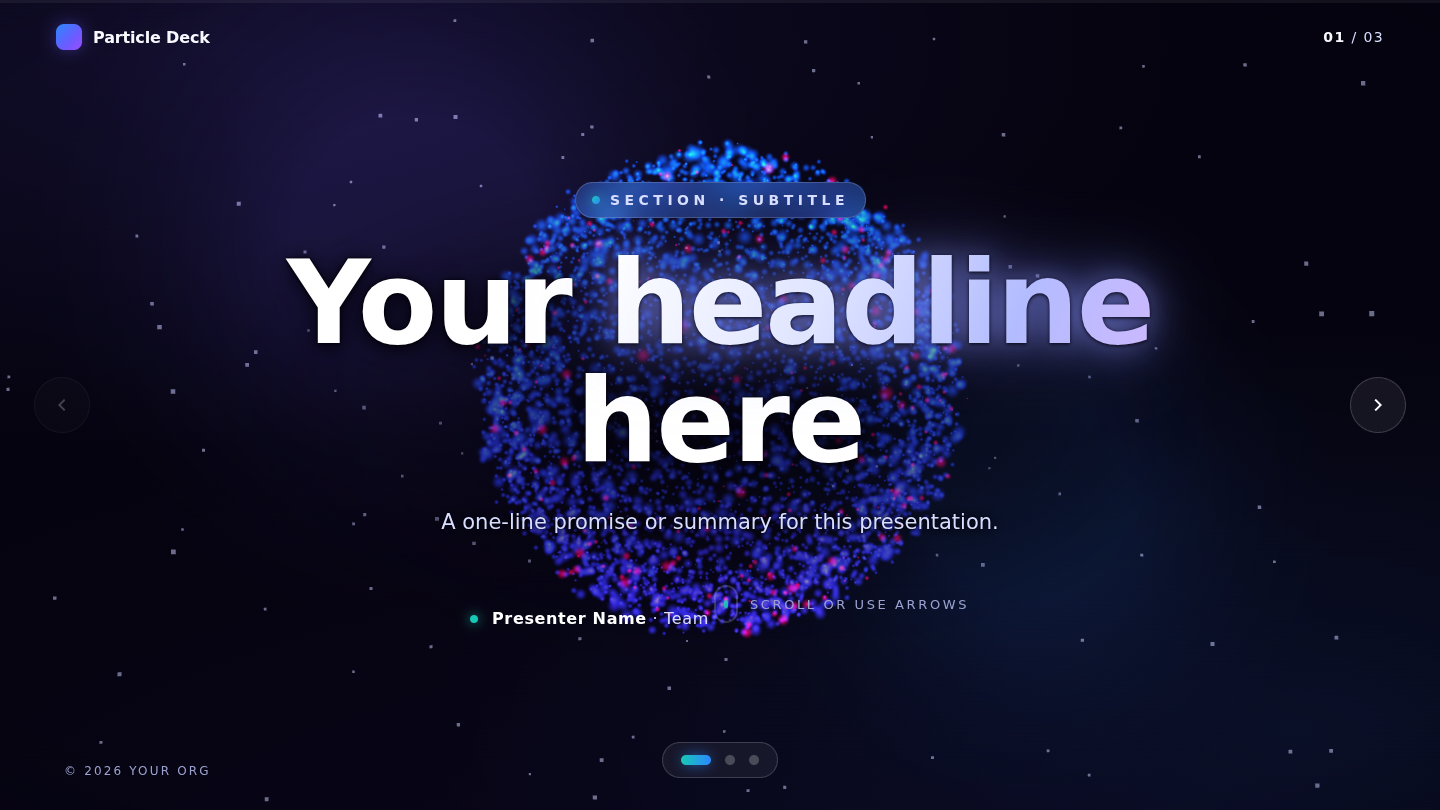
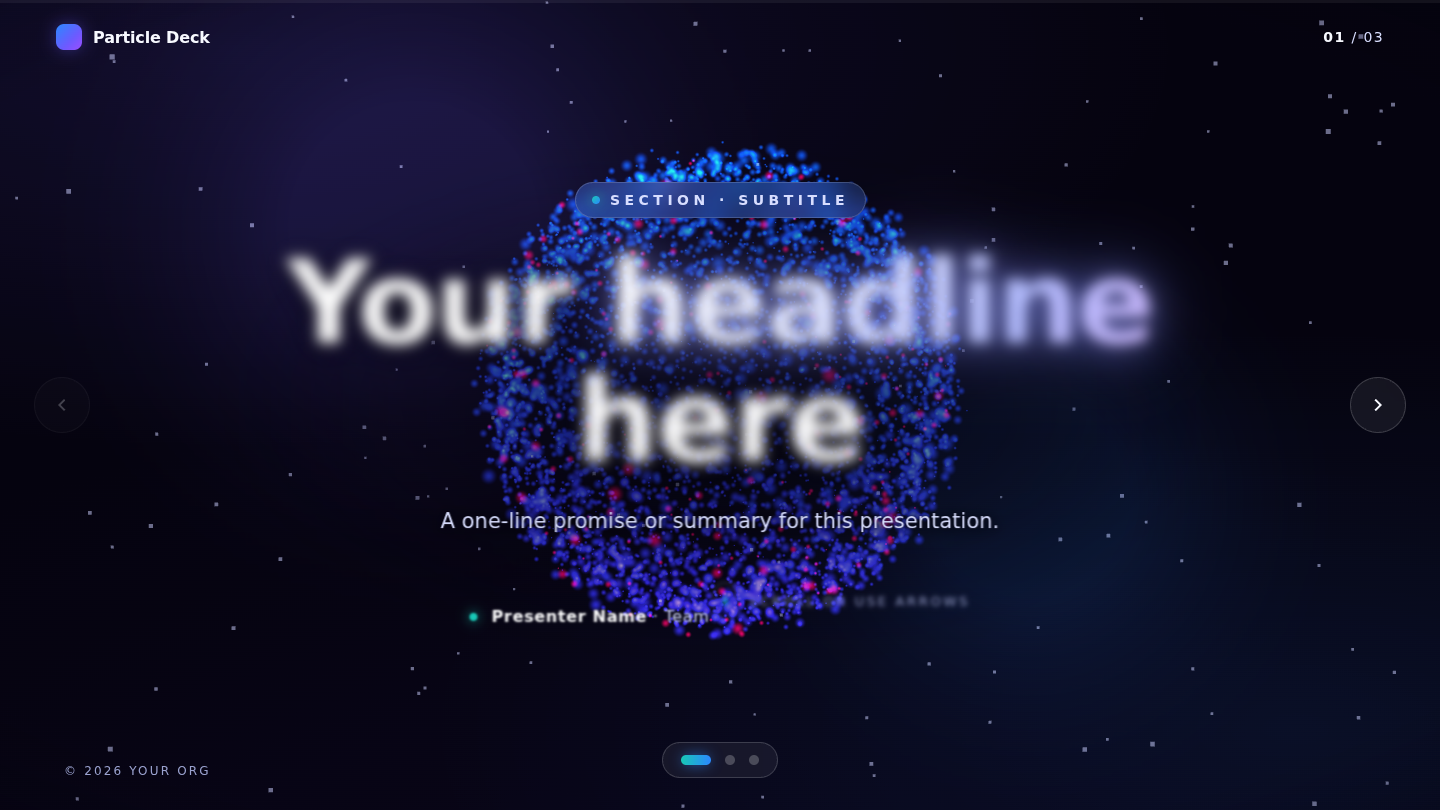
Particle curtain transitions (content stays crisp DOM)
Revert the particle-as-text approach. All text/containers stay real,
crisp DOM. Particles are a pure visual wipe: on each slide change they
surge to the FRONT, fill the screen and obscure the slide while the DOM
swaps underneath, then recede into the slide's background formation.

- scene.js: add _formCover() (screen-filling near-camera storm) + surge()
- app.js: curtain sequence — surge + raise canvas to front, swap DOM at
  the cover peak, settle into the formation, drop canvas back behind;
  same curtain used for the intro
- css: #bg-canvas.front raises the field above slides during transitions
- refresh README + previews

On branch for review (off main).

Claude-Session: https://claude.ai/code/session_01FRZWzFF1btedcNibAcTrn4

Changed region(s): [[0.1875, 0.1543, 0.8125, 0.8025]]

diff --git a/assets/js/app.js b/assets/js/app.js
@@ -6,7 +6,8 @@ import { Cosmos } from "./scene.js";
 
 const gsap = window.gsap;
 
-const cosmos = new Cosmos(document.getElementById("bg-canvas"));
+const bgCanvas = document.getElementById("bg-canvas");
+const cosmos = new Cosmos(bgCanvas);
 cosmos.start();
 
 const slides = Array.from(document.querySelectorAll(".slide"));
@@ -66,41 +67,46 @@ function animateOut(slide) {
   });
 }
 
-/* ---- navigation ---- */
+/* Read a slide's particle declaration and recede into its formation. */
+function settleScene(slide) {
+  const spec = slide.dataset.formation || "orb";
+  const over = {};
+  if (slide.dataset.cam) over.cam = slide.dataset.cam.split(",").map(Number);
+  cosmos.applyFormation(spec, gsap, over);
+}
+
+/* ---- navigation ----
+   Curtain transition: particles surge to the FRONT and obscure the
+   slide, the DOM swaps behind that cover, then particles recede into
+   the next slide's background formation. Content is always real DOM. */
 function go(index) {
   if (index < 0 || index >= total || index === current || animating) return;
   animating = true;
   const prevSlide = slides[current];
   const nextSlide = slides[index];
 
+  // 1) particles rush to the front and sweep over the slide
+  bgCanvas.classList.add("front");
+  cosmos.surge(gsap);
   animateOut(prevSlide);
-
-  // drive the 3D scene from the slide's own declaration
-  applyScene(nextSlide);
   current = index;
   updateChrome();
 
-  // deterministic swap once the out-animation has played
+  // 2) at the peak of the cover, swap the slide underneath + recede
   setTimeout(() => {
     prevSlide.classList.remove("is-active");
     nextSlide.classList.add("is-active");
     animateIn(nextSlide);
-    setTimeout(() => (animating = false), 650);
-  }, 360);
+    settleScene(nextSlide);
+  }, 520);
+
+  // 3) drop the field back behind the content as it thins out
+  setTimeout(() => bgCanvas.classList.remove("front"), 1150);
+  setTimeout(() => (animating = false), 1450);
 }
 
 function next() { go(current + 1); }
 function prev() { go(current - 1); }
-
-/* Read a slide's particle declaration and drive the engine.
-   data-formation="orb|core|clusters:3|split|ring|grid|stream|burst|…"
-   data-cam="x,y,z"  (optional camera override) */
-function applyScene(slide) {
-  const spec = slide.dataset.formation || "orb";
-  const over = {};
-  if (slide.dataset.cam) over.cam = slide.dataset.cam.split(",").map(Number);
-  cosmos.applyFormation(spec, gsap, over);
-}
 
 function updateChrome() {
   dots.forEach((d, i) => d.classList.toggle("is-active", i === current));
@@ -148,12 +154,17 @@ window.addEventListener("touchend", (e) => {
 
 /* ---- boot ---- */
 function boot() {
-  applyScene(slides[0]);
-  slides[0].classList.add("is-active");
-  animateIn(slides[0]);
   updateChrome();
-  const loader = document.getElementById("loader");
-  loader.classList.add("hidden");
+  document.getElementById("loader").classList.add("hidden");
+  // intro: a particle curtain sweeps in, then the first slide is revealed
+  bgCanvas.classList.add("front");
+  cosmos.surge(gsap);
+  setTimeout(() => {
+    slides[0].classList.add("is-active");
+    animateIn(slides[0]);
+    settleScene(slides[0]);
+  }, 520);
+  setTimeout(() => bgCanvas.classList.remove("front"), 1150);
 }
 
 // Boot on DOM-ready (not window.load) so a slow/blocked font never

diff --git a/assets/js/scene.js b/assets/js/scene.js
@@ -420,6 +420,35 @@ export class Cosmos {
   /** List available formation names (handy for tooling/docs). */
   get formationNames() { return Object.keys(this._registry); }
 
+  /* ============================================================
+     Transition curtain — particles rush to the FRONT and fill the
+     screen to obscure the slide while it swaps underneath, then
+     settle (recede) into the next slide's background formation.
+     The content is always real DOM; this is purely a visual wipe.
+     ============================================================ */
+  _formCover() {
+    const { pos, col } = this._alloc(), N = this.N;
+    const dist = 5;                                   // how far in front of the camera
+    const vh = 2 * dist * Math.tan(THREE.MathUtils.degToRad(this.camera.fov / 2)) * 1.4; // overfill
+    const vw = vh * this.camera.aspect;
+    const zc = this.camera.position.z - dist;         // between camera and content
+    const tmp = new THREE.Color();
+    for (let i = 0; i < N; i++) {
+      pos[i * 3] = (Math.random() - 0.5) * vw;
+      pos[i * 3 + 1] = (Math.random() - 0.5) * vh;
+      pos[i * 3 + 2] = zc + (Math.random() - 0.5) * 2.2;
+      const c = Math.random() < 0.62 ? tmp.copy(C.white) : tmp.copy(C.iris).lerp(C.blue, Math.random());
+      this._setCol(col, i, c, 0.06);
+    }
+    return { pos, col };
+  }
+
+  /** Phase 1 of a transition: rush forward into a screen-filling storm. */
+  surge(gsap) {
+    this.gsap = gsap;
+    this._morphTo(this._formCover(), { dur: 0.55, arc: 0.5, ease: "power2.in", spin: 0.0 });
+  }
+
   _camTo(x, y, z) {
     this.camBase = { x, y, z };
     this.gsap.to(this.camera.position, { x, y, z, duration: 1.4, ease: "power3.inOut" });

diff --git a/assets/css/styles.css b/assets/css/styles.css
@@ -52,6 +52,11 @@ html, body {
   z-index: 0;
   display: block;
 }
+/* during a transition the particle field jumps in front of the slide
+   to sweep over it (the curtain), then drops back behind */
+#bg-canvas.front {
+  z-index: 35;            /* above slides (5), below nav chrome (40) */
+}
 
 .cosmos-wash {
   position: fixed;

diff --git a/README.md b/README.md
@@ -31,12 +31,16 @@ Each slide declares its particle artwork in HTML:
 Dots, counter, and navigation update automatically from the number of slides.
 Full guide → **[AUTHORING.md](AUTHORING.md)**.
 
-| Content slide (clusters) | Closing (burst) |
+| Transition curtain (particles obscure the swap) | Content slide (crisp DOM + formation) |
 |---|---|
-| ![Content](docs/preview/02-content.png) | ![Closing](docs/preview/03-closing.png) |
+| ![Curtain](docs/preview/02-curtain.png) | ![Content](docs/preview/03-content.png) |
 
 ## What the engine gives you
 
+- **Particle curtain transitions** — on every slide change the field surges to the *front*,
+  sweeps over and obscures the slide while the DOM swaps underneath, then recedes into the
+  next slide's background formation. The content is always real, crisp DOM — the particles
+  are a pure visual wipe.
 - **Morphing particle field** — a custom GLSL shader eases particles between formations
   (with arc displacement so they visibly fly between shapes) and adds idle drift at rest
 - **Restrained cosmic theme** — cool white/violet/blue with sparse accent pops